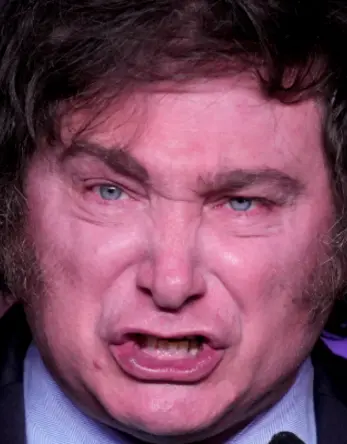
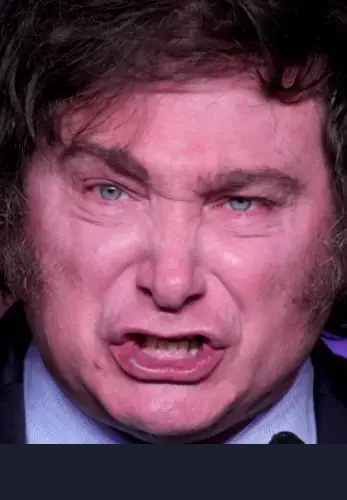
Raise Milei head cube and lower jacket so the full portrait stays visible.

diff --git a/lib/m1-milei-statue.js b/lib/m1-milei-statue.js
@@ -109,10 +109,10 @@ export function createM1MileiStatueVisual(THREE, lowDetail = false) {
   addBox(bodyPivot, 0.19, 0.07, 0.24, shoe, -0.11, 0.03, -0.01)
   addBox(bodyPivot, 0.19, 0.07, 0.24, shoe, 0.11, 0.03, -0.01)
 
-  // Jacket & shirt
-  addBox(bodyPivot, 0.54, 0.50, 0.30, suit, 0, 0.58, 0)
-  addBox(bodyPivot, 0.22, 0.18, 0.08, shirt, 0, 0.72, -0.12)
-  addBox(bodyPivot, 0.08, 0.24, 0.04, tie, 0, 0.64, -0.145)
+  // Jacket & shirt — kept below the chin so the portrait cube stays unobstructed
+  addBox(bodyPivot, 0.54, 0.44, 0.30, suit, 0, 0.50, 0.02)
+  addBox(bodyPivot, 0.20, 0.12, 0.08, shirt, 0, 0.62, 0.06)
+  addBox(bodyPivot, 0.07, 0.18, 0.04, tie, 0, 0.56, 0.05)
 
   // Presidential sash — light blue / white / light blue + sun
   addBox(bodyPivot, 0.10, 0.42, 0.03, sashBlue, 0.18, 0.58, 0.10)
@@ -127,19 +127,21 @@ export function createM1MileiStatueVisual(THREE, lowDetail = false) {
   addBox(bodyPivot, 0.12, 0.12, 0.12, skinLight, -0.36, 0.30, -0.01)
   addBox(bodyPivot, 0.12, 0.12, 0.12, skinLight, 0.36, 0.30, -0.01)
 
-  // Neck + head backing for the photo plane
-  addBox(bodyPivot, 0.12, 0.08, 0.12, skin, 0, 0.80, 0)
-  addBox(bodyPivot, 0.30, 0.34, 0.22, skin, 0, 1.02, 0.02)
+  // Neck + head backing for the photo cube
+  addBox(bodyPivot, 0.10, 0.06, 0.10, skin, 0, 0.76, 0.04)
+  addBox(bodyPivot, 0.28, 0.28, 0.18, skin, 0, 0.96, 0.04)
 
   attachBossHeadPhoto(THREE, bodyPivot, M1_MILEI_HEAD_TEXTURE_URL, lowDetail, {
     name: 'm1MileiHeadPhoto',
-    planeWidth: 0.56,
-    planeHeight: 0.58,
-    y: 1.02,
-    z: -0.132,
-    headDepth: 0.42,
+    planeWidth: 0.54,
+    planeHeight: 0.66,
+    y: 1.14,
+    z: -0.145,
+    renderOrder: 12,
+    headDepth: 0.44,
     sideColor: '#e8c4a8',
     topColor: '#2a1a0c',
+    uvLayout: { frontV0: 0.02, frontV: 0.9, fringeV: 0.1, sideU: 0.13, frontU: 0.66 },
   })
 
   const shadow = new THREE.Mesh(

diff --git a/lib/boss-head-photo.js b/lib/boss-head-photo.js
@@ -35,15 +35,15 @@ function makePhotoMaterial(THREE, texture, repeatX, repeatY, offsetX, offsetY, t
 }
 
 /** UV regions with shared edges so cube seams sample the same portrait pixels. */
-function buildCubeHeadUvLayout() {
-  const sideU = 0.15
-  const frontU0 = sideU
-  const frontU = 0.62
+function buildCubeHeadUvLayout(overrides = {}) {
+  const sideU = overrides.sideU ?? 0.15
+  const frontU0 = overrides.frontU0 ?? sideU
+  const frontU = overrides.frontU ?? 0.62
   const frontU1 = frontU0 + frontU
-  const frontV0 = 0.13
-  const frontV = 0.75
+  const frontV0 = overrides.frontV0 ?? 0.13
+  const frontV = overrides.frontV ?? 0.75
   const frontTopV = frontV0 + frontV
-  const fringeV = 0.11 // thin hairline strip stretched on the +y face
+  const fringeV = overrides.fringeV ?? 0.11
 
   return {
     // +x = boss left cheek — right side of the portrait (person's left ear)
@@ -71,11 +71,12 @@ function addBossHeadCube(THREE, mount, planeWidth, planeHeight, cubeDepth, textu
     topColor = '#374151',
     lowDetail = false,
     sideFaces = 'photo',
+    uvLayout = null,
   } = options
 
   const backColor = new THREE.Color(sideColor).multiplyScalar(0.78)
   const bottomColor = new THREE.Color(sideColor).multiplyScalar(0.9)
-  const uv = buildCubeHeadUvLayout()
+  const uv = buildCubeHeadUvLayout(uvLayout || {})
   const solidSides = sideFaces === 'solid'
 
   const face = (region) => makePhotoMaterial(
@@ -126,6 +127,7 @@ export function attachBossHeadPhoto(THREE, bodyPivot, textureUrl, lowDetail, opt
     sideColor = '#dcb896',
     topColor = '#374151',
     sideFaces = 'photo',
+    uvLayout = null,
   } = options
 
   const mount = new THREE.Group()
@@ -157,6 +159,7 @@ export function attachBossHeadPhoto(THREE, bodyPivot, textureUrl, lowDetail, opt
         topColor,
         lowDetail,
         sideFaces,
+        uvLayout,
       })
       mount.userData.headMesh = headCube
     })